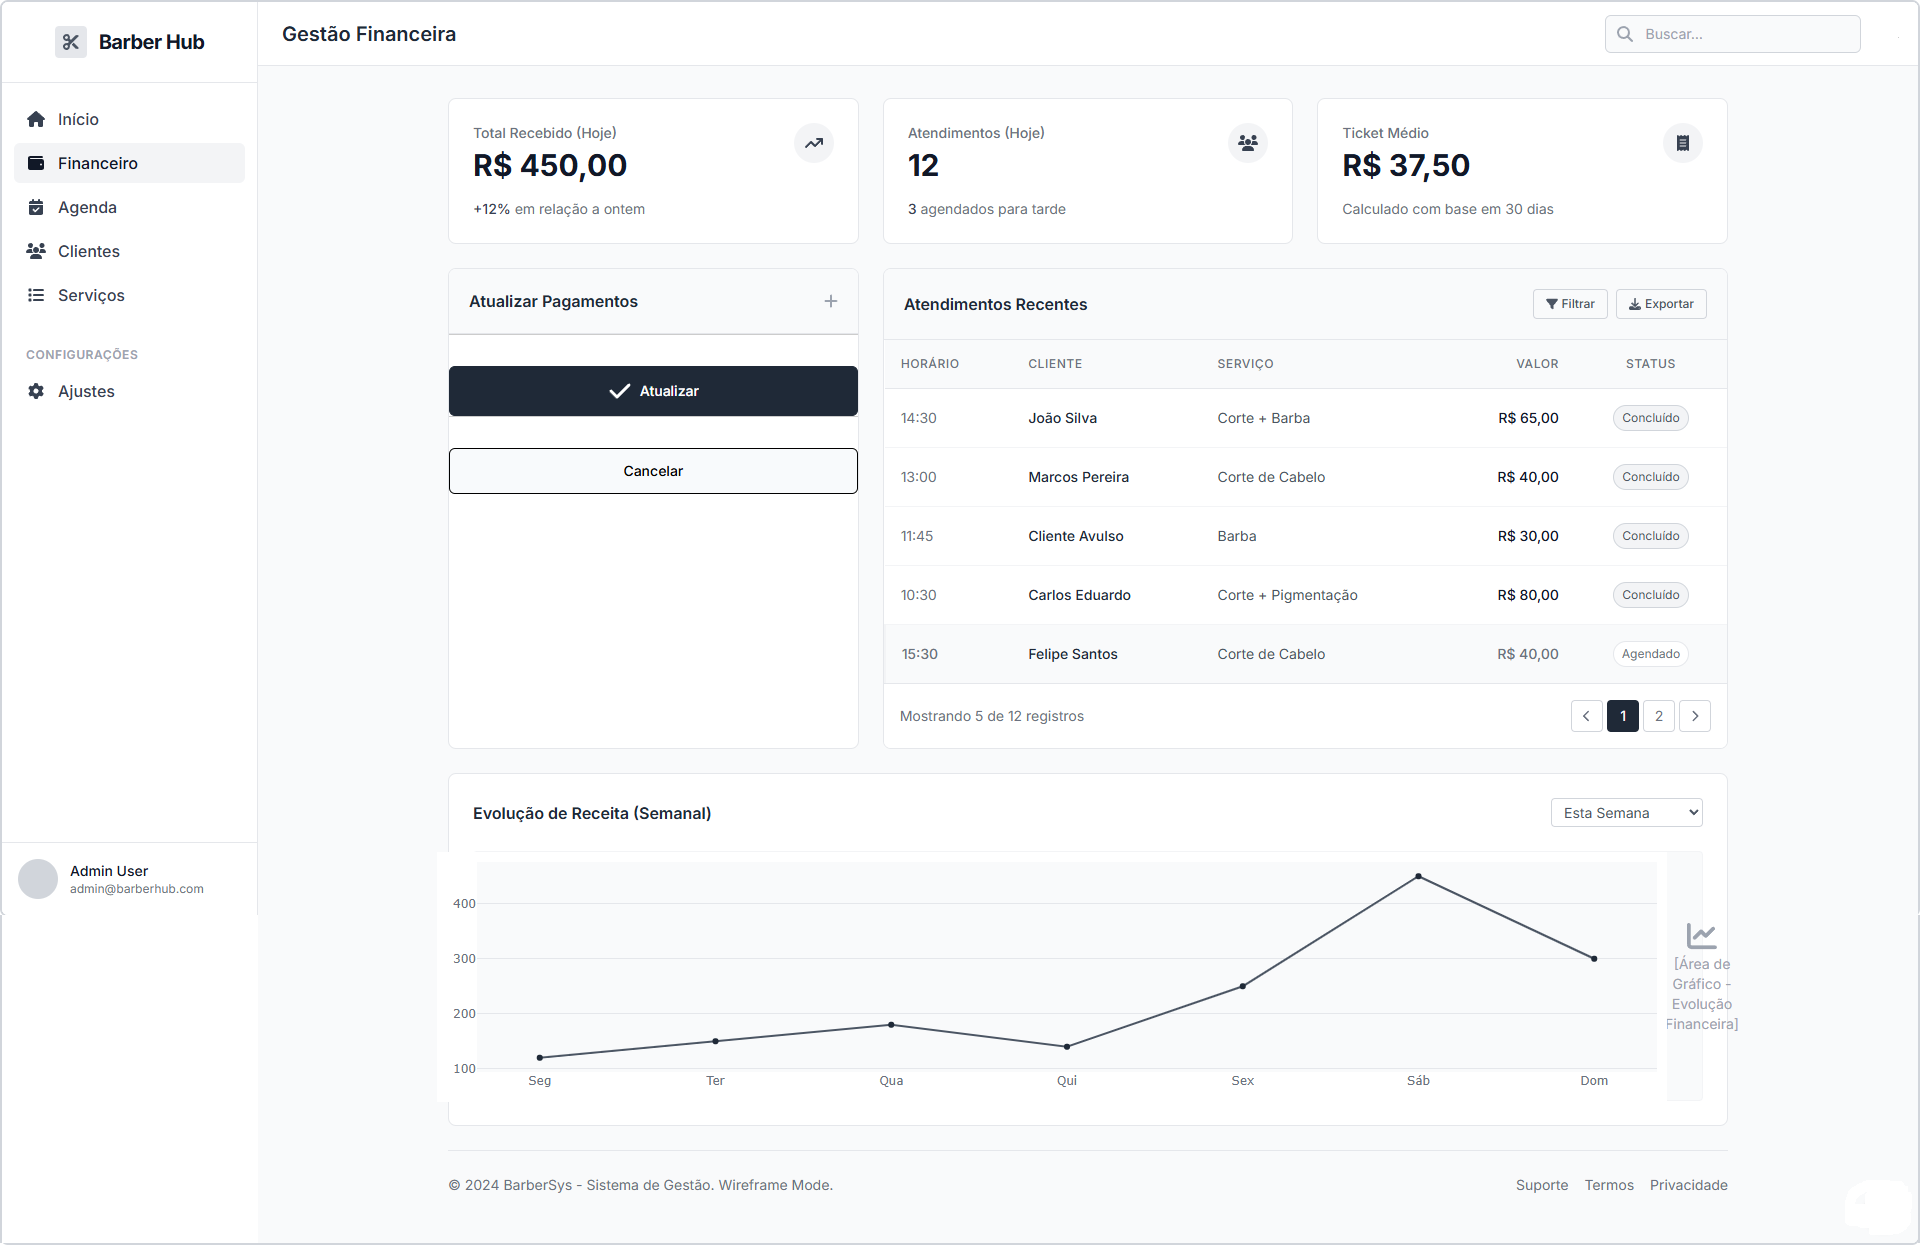
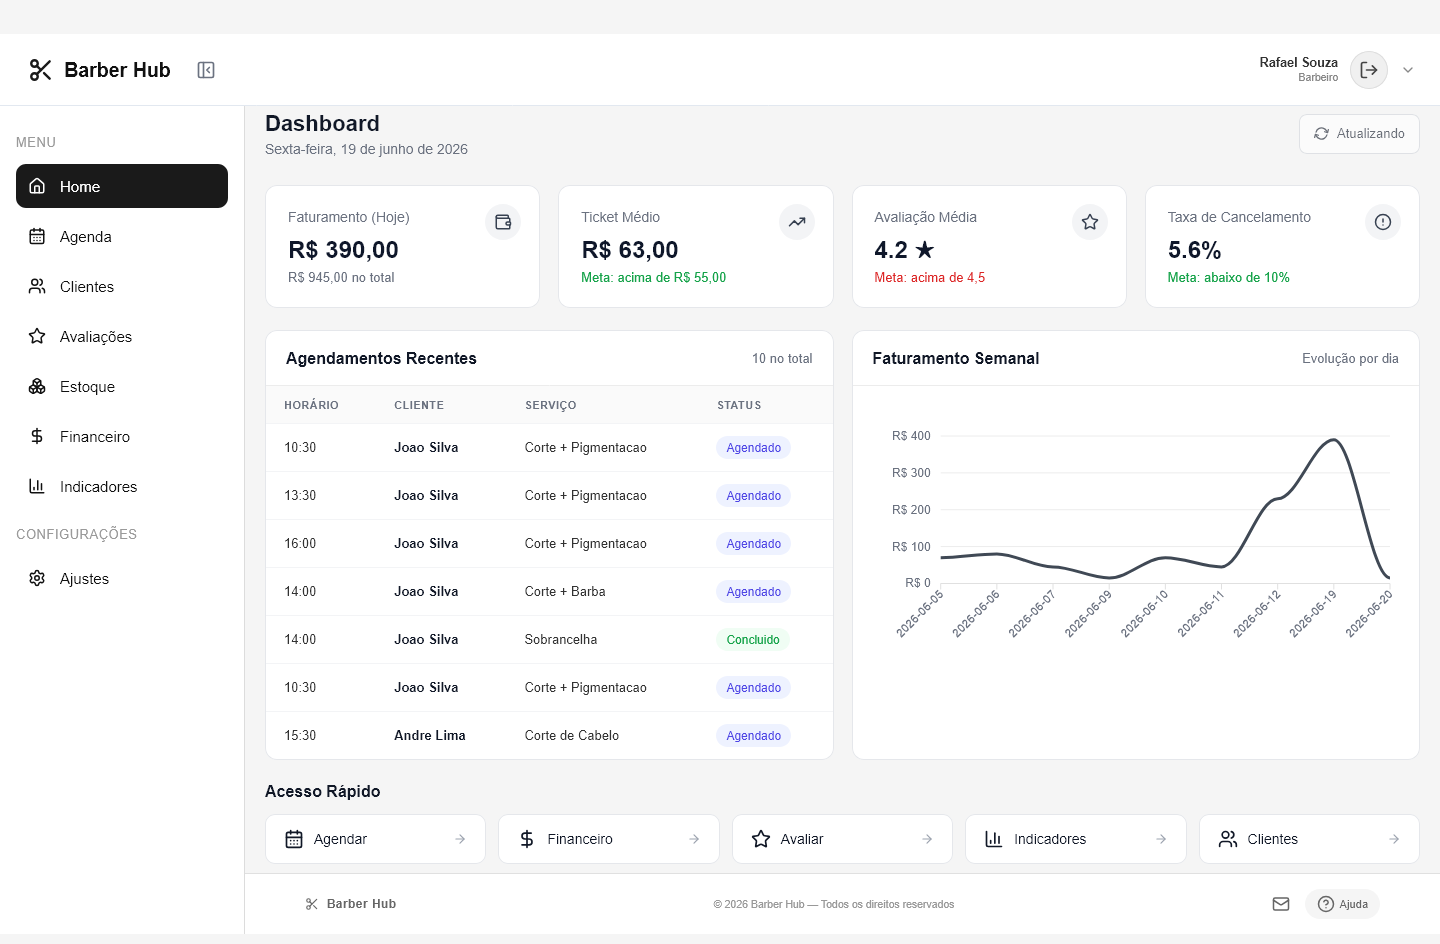
Inclui a tela de indicadores na documentação

diff --git a/docs/6-Interface-Sistema.md b/docs/6-Interface-Sistema.md
@@ -41,4 +41,10 @@ Também estão disponíveis filtros de busca e a área de alertas de estoque bai
 
 ![Wireframe da tela de estoque](images/wireframeEstoque.png)
 
+## 6.5. Tela de Indicadores
+
+A tela de indicadores apresenta a visão consolidada do desempenho da barbearia, com cartões de faturamento, ticket médio, avaliação média e taxa de cancelamento, além de gráficos que ajudam no acompanhamento da operação.
+
+![Wireframe da tela de indicadores](images/wireframeIndicadores.png)
+
 
